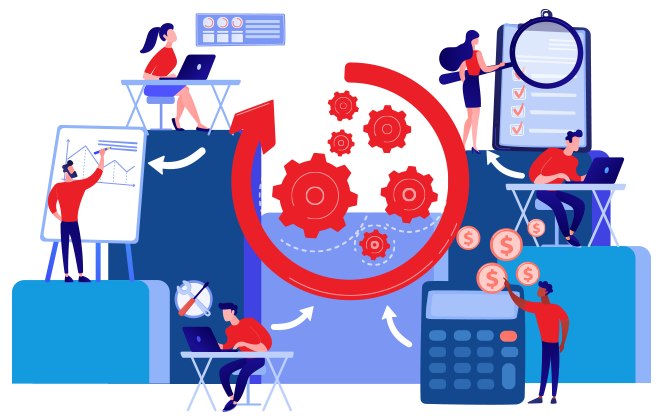
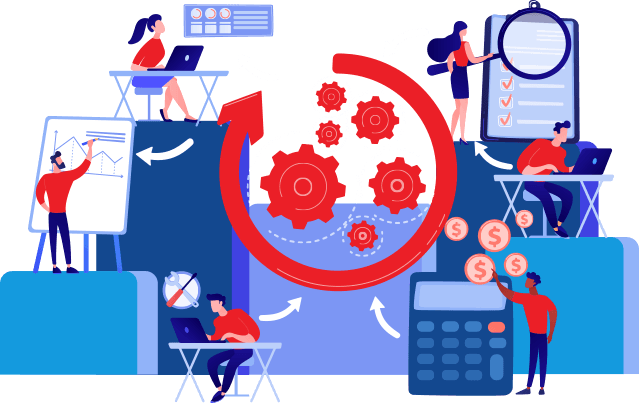
compressed images and made unicorn pin more responsive

Changed region(s): [[0.0, 0.0, 1.0, 1.0]]

diff --git a/src/components/about/section.js b/src/components/about/section.js
@@ -6,19 +6,18 @@ const Section = (props) => {
   return (
     <section id={props.sectionId} className="aboutSection max-w-full flex flex-col sm:flex-row px-5 lg:px-11 md:px-24 xl:px-32 mt-24">
         <div className={`h-1/2 sm:h-full sm:w-1/2 p-5 lg:p-12 ${props.contentStyle}`}>
-          <h2 className="flex items-center">
+          <h2 className="flex items-center ">
             <img
               className="self-start aboutPin 2xl:aboutPinDesktop"
-              // style={{ maxWidth: "80px" }}
               src={unicornPin}
               alt="Unicorn standing on card"
             />
             <span className="text-blue-900 text-4xl lg:text-6xl xl:text-7xl 2xl:text-8xl font-bold pr-5">{props.title}</span>
           </h2>
-          <h3 className="text-red-600 text-3xl lg:text-4xl mt-10">
+          <h3 className="text-red-600 text-3xl lg:text-4xl mt-10 ">
             {props.subtitle}
           </h3>
-          <p className="mt-10 text-lg lg:text-2xl 2xl:pr-24">
+          <p className="mt-10 text-lg lg:text-2xl 2xl:pr-24 ">
             {props.text}
           </p>
         </div>

diff --git a/src/pages/train.js b/src/pages/train.js
@@ -83,7 +83,7 @@ const Train = ({ data }) => {
             <a
               aria-hidden="true"
               href="#latestPosts"
-              className={`text-5xl xl:text-6xl 2xl:text-7xl w-1/12 absolute bottom-5 animate-bounce text-center w-full`}
+              className={`text-5xl xl:text-6xl 2xl:text-7xl absolute bottom-5 animate-bounce text-center w-full`}
               // style={{ left: "50%" }}
             >
               <motion.i
@@ -110,7 +110,7 @@ const Train = ({ data }) => {
             alt="unicorn with star trail"
           />
           <div className="mt-5 md:mt-16 mx-auto relative py-16 h-full">
-            <div className="md:px-16 sticky top-0 bg-white relative">
+            <div className="md:px-16 top-0 bg-white relative">
               <h2
                 className="fontTitle text-left text-5xl md:text-6xl lg:text-7xl xl:text-7xl mb-16 flex flex-col sm:flex-row items-center w-full justify-between relative h-full"
                 style={battleText}

diff --git a/src/pages/about.js b/src/pages/about.js
@@ -36,7 +36,7 @@ const About = () => {
         })
       }
 
-      <SideNav sectionHeight={sectionRef.current}/>
+      {/* <SideNav sectionHeight={sectionRef.current}/> */}
 
       <Footer />
     </div>

diff --git a/src/styles/global.css b/src/styles/global.css
@@ -28,7 +28,7 @@
       max-width: 40px;
     }
     .aboutPin {
-      max-width: 80px;
+      max-width: 20%;
     }
     .aboutPinDesktop {
       max-width: 120px;
